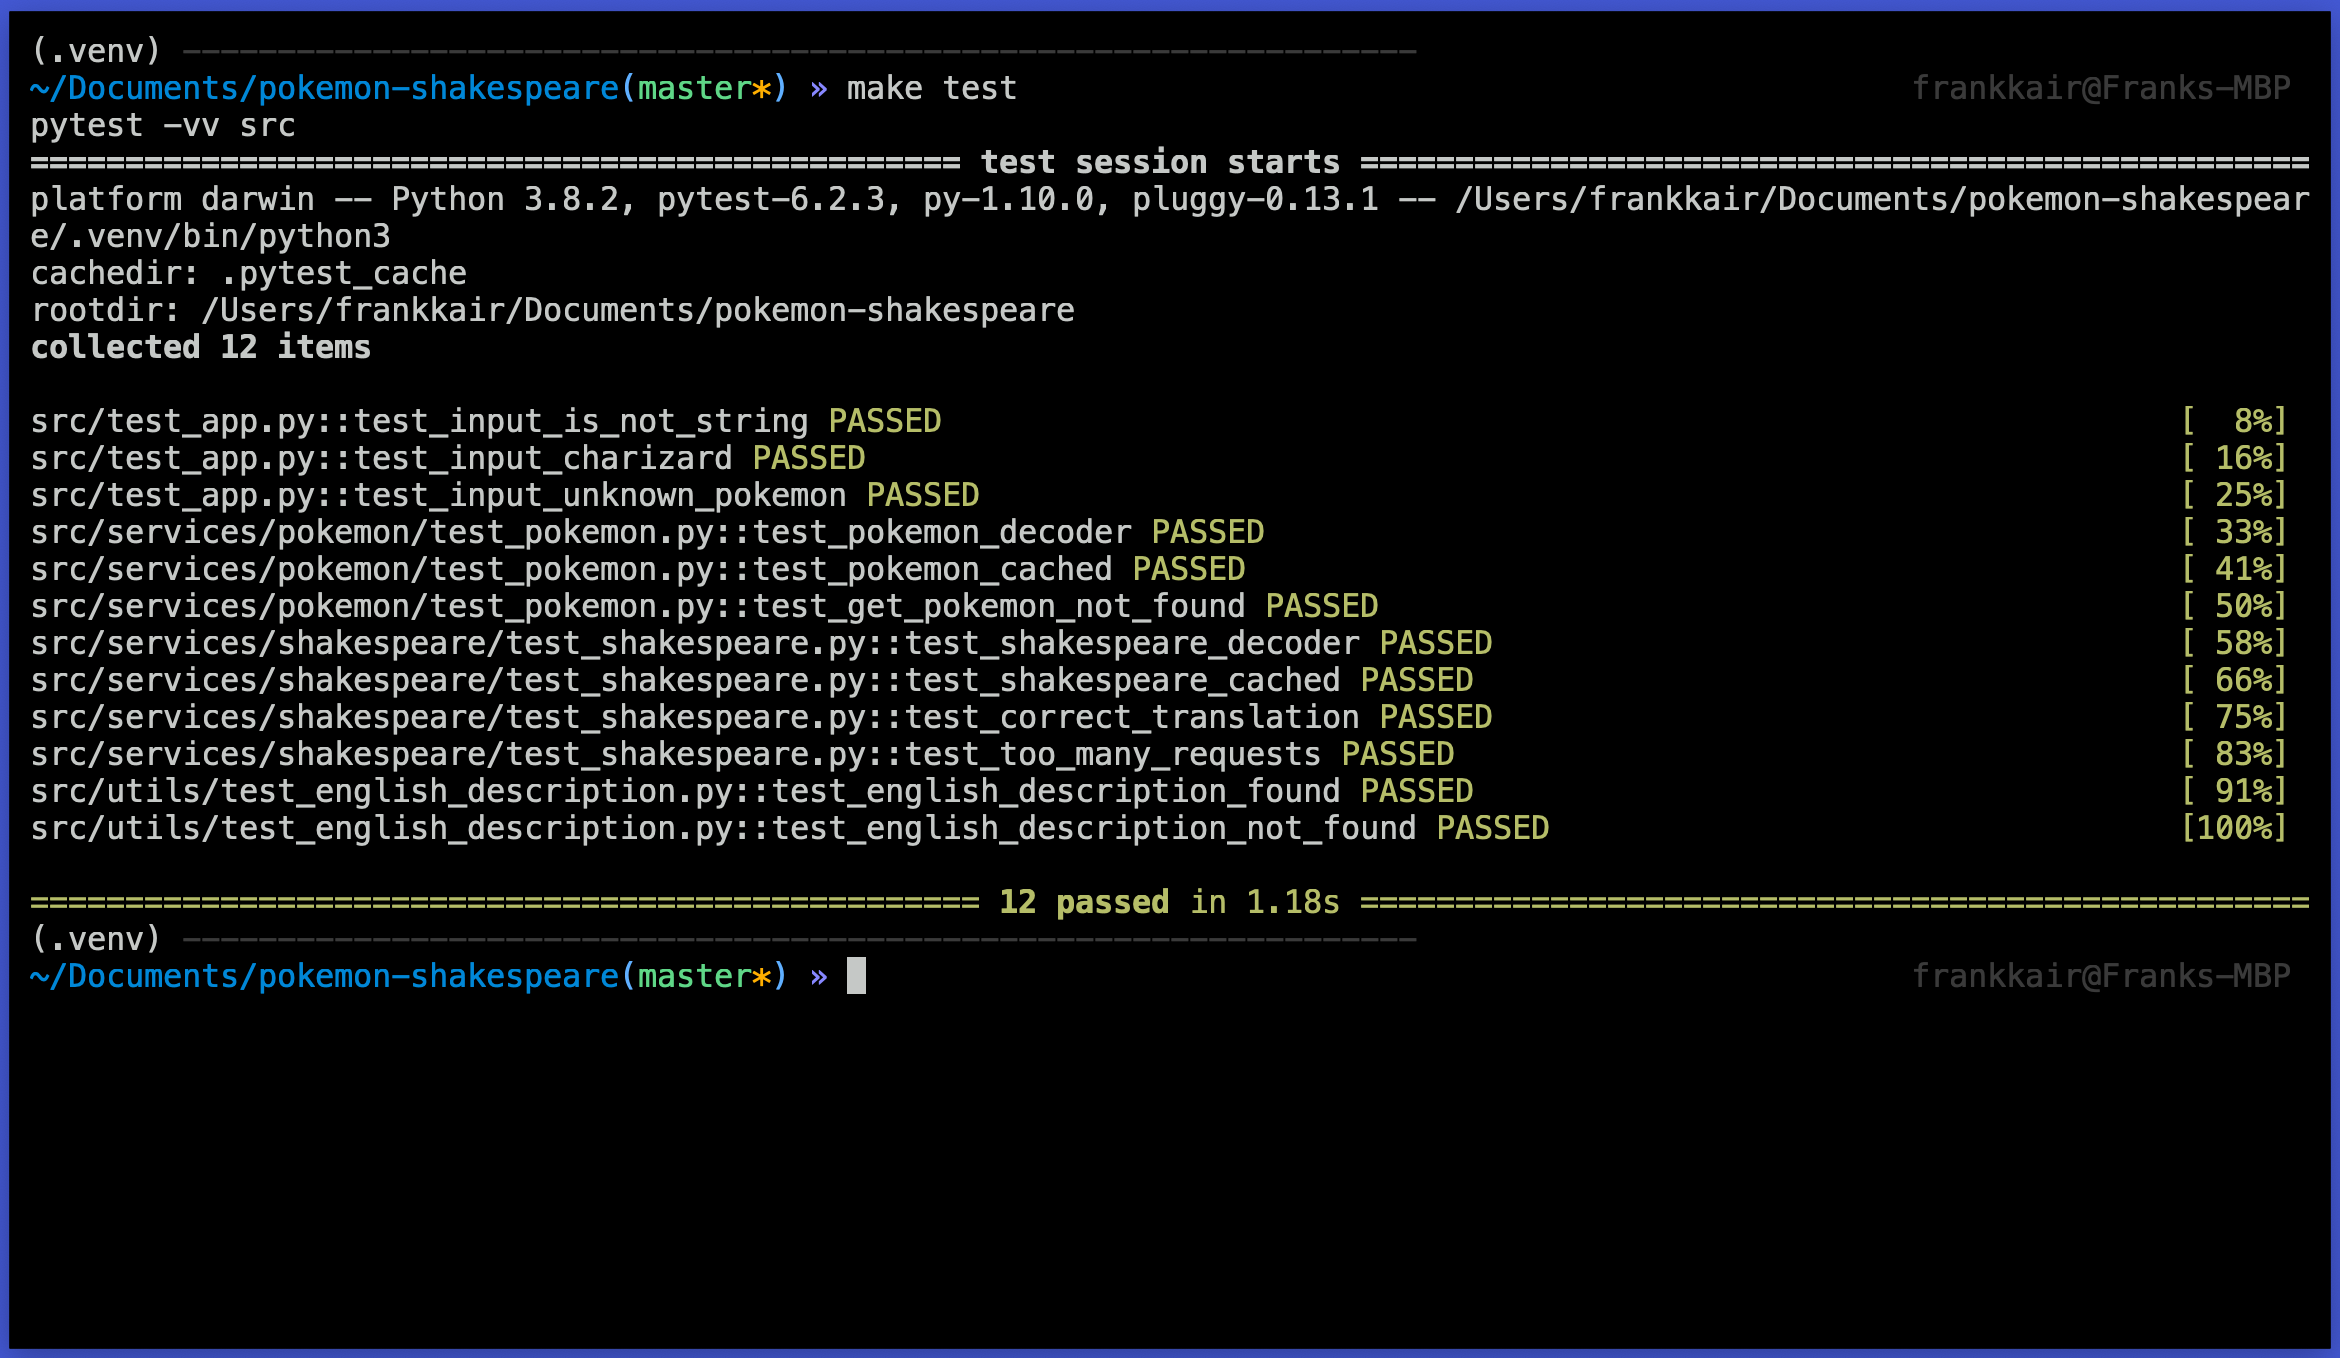
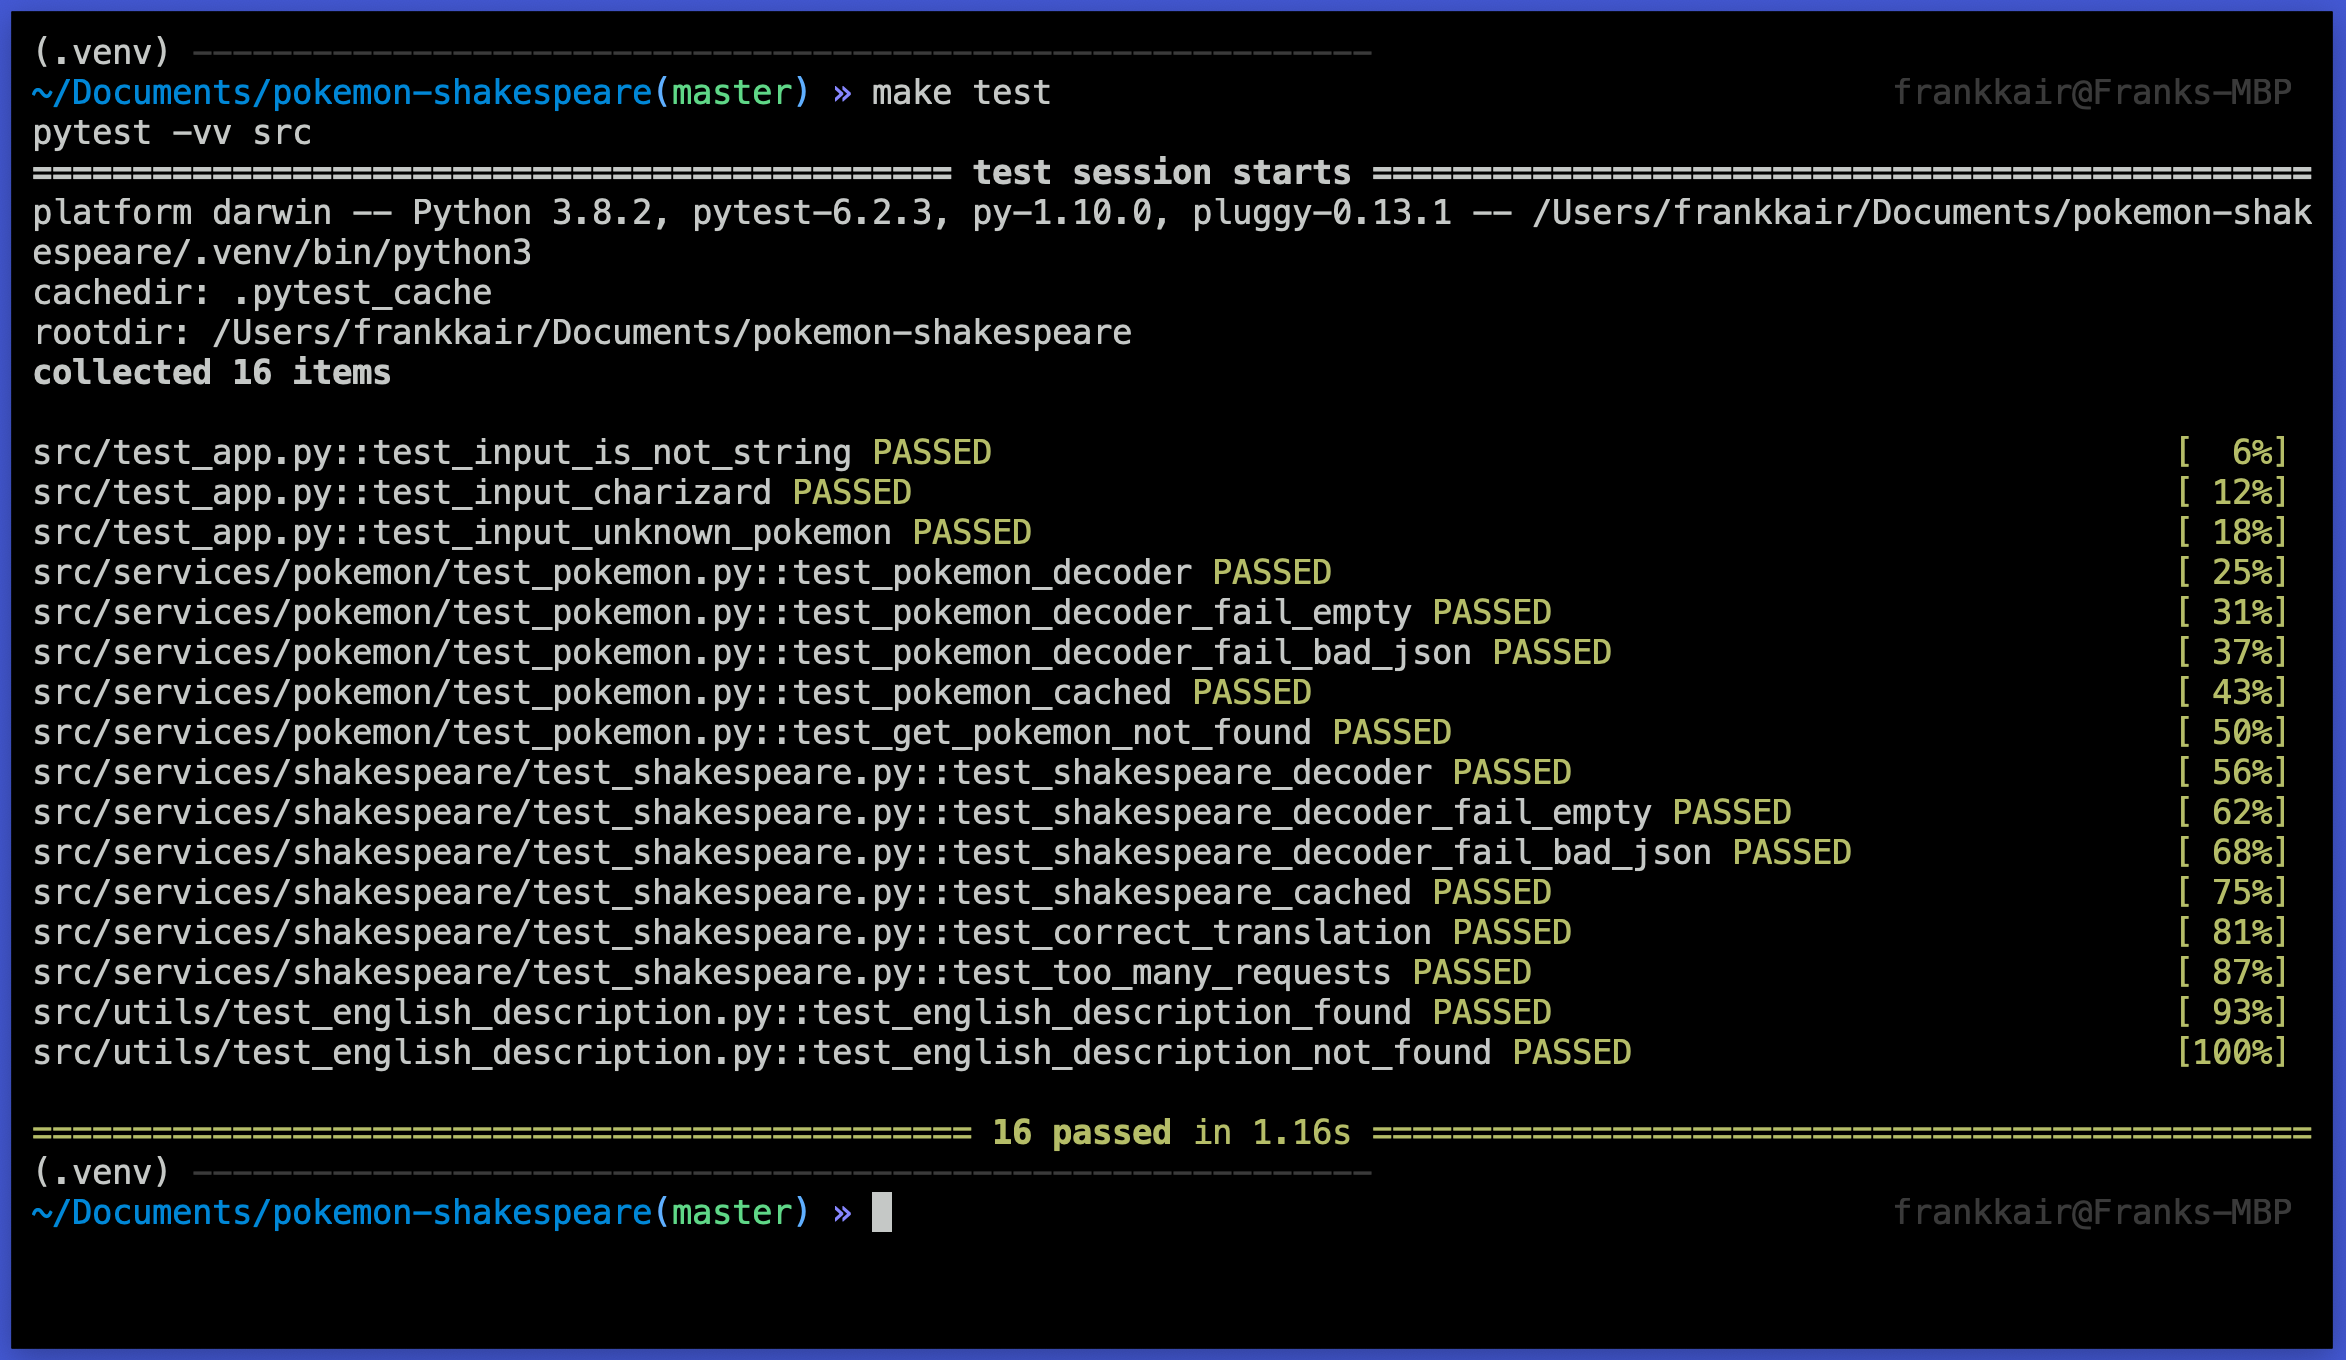
Function docs, note about logging and extra tests
- Functions are now fully documented with Args, Returns and Raises;
- Note about logging;
- Extra decoder tests with more robust error handling;
- Fixes some typos.

Changed region(s): [[0.0, 0.0309, 0.9983, 0.8969], [0.0, 0.9897, 0.9983, 1.0]]

diff --git a/src/services/pokemon/models.py b/src/services/pokemon/models.py
@@ -22,25 +22,43 @@ class Pokemon:
 
 
 def decode(data: Dict[str, Any]) -> Pokemon:
-    pkm_name = data['name']
-    flavor_text_entries = data['flavor_text_entries']
-    entries = []
+    """ Maps the PokeAPI call to a Pokemon object.
 
-    for entry in flavor_text_entries:
-        language = NameAndURL(
-            name=entry['language']['name'],
-            url=entry['language']['url'])
+    Args:
+        data: Dict[str, Any] representing the API response
 
-        version = NameAndURL(
-            name=entry['version']['name'],
-            url=entry['version']['url'])
+    Returns:
+        Pokemon object
 
-        entries.append(
-            FlavorTextEntry(
-                flavor_text=entry['flavor_text'],
-                language=language,
-                version=version
+    Raises:
+        ValueError if data is empty or does not contain the necessary key/values
+    """
+    if not data:
+        raise ValueError('Pokemon not found')
+
+    try:
+        pkm_name = data['name']
+        flavor_text_entries = data['flavor_text_entries']
+        entries = []
+
+        for entry in flavor_text_entries:
+            language = NameAndURL(
+                name=entry['language']['name'],
+                url=entry['language']['url'])
+
+            version = NameAndURL(
+                name=entry['version']['name'],
+                url=entry['version']['url'])
+
+            entries.append(
+                FlavorTextEntry(
+                    flavor_text=entry['flavor_text'],
+                    language=language,
+                    version=version
+                )
             )
-        )
 
-    return Pokemon(name=pkm_name, flavor_text_entries=entries)
+        return Pokemon(name=pkm_name, flavor_text_entries=entries)
+
+    except KeyError:
+        raise ValueError('Pokemon not found')

diff --git a/src/services/shakespeare/models.py b/src/services/shakespeare/models.py
@@ -21,12 +21,28 @@ class Translation:
 
 
 def decode(data: Dict[str, Any]) -> Translation:
-    t = Translation(
-        success=Success(total=data['success']['total']),
-        contents=Contents(
-            translated=data['contents']['translated'],
-            text=data['contents']['text'],
-            translation=data['contents']['translation']
+    """ Maps the Shakespeare API call to a Translation object.
+
+    Args:
+        data: Dict[str, Any] representing the API response
+
+    Returns:
+        Translation object
+
+    Raises:
+        ValueError if data is empty or does not contain the necessary key/values
+    """
+    if not data:
+        raise ValueError('No Shakespeare description found')
+
+    try:
+        return Translation(
+            success=Success(total=data['success']['total']),
+            contents=Contents(
+                translated=data['contents']['translated'],
+                text=data['contents']['text'],
+                translation=data['contents']['translation']
+            )
         )
-    )
-    return t
+    except KeyError:
+        raise ValueError('No Shakespeare description found')

diff --git a/src/services/shakespeare/client.py b/src/services/shakespeare/client.py
@@ -8,8 +8,19 @@ SHAKESPEARE_ENDPOINT = BASE_ENDPOINT + "shakespeare.json"
 
 
 @lru_cache(maxsize=16)
-def get_translation(desc: str) -> str:
-    response = requests.post(url=SHAKESPEARE_ENDPOINT, data={'text': desc})
+def get_translation(text: str) -> str:
+    """ Given a str, returns a Shakespeare style translation.
+
+    Args:
+        text: The input string
+
+    Returns:
+        The translated string
+
+    Raises:
+        HTTPError (status 429) if too many requests are sent
+    """
+    response = requests.post(url=SHAKESPEARE_ENDPOINT, data={'text': text})
     if response.status_code == 429:
         raise requests.exceptions.HTTPError('Too many requests')
 

diff --git a/src/services/pokemon/client.py b/src/services/pokemon/client.py
@@ -9,6 +9,17 @@ SPECIES_ENDPOINT = BASE_ENDPOINT + 'pokemon-species/'
 
 @lru_cache(maxsize=16)
 def get_pokemon(pkm_name: str) -> Pokemon:
+    """ Given a pokemon name, returns a Pokemon object.
+
+    Args:
+        pkm_name: str
+
+    Returns:
+        Pokemon object with name and flavor_text_entries
+
+    Raises:
+        ValueError if request times out or Pokemon does not exist
+    """
     try:
         url = SPECIES_ENDPOINT + pkm_name
         response = requests.get(url, timeout=5)

diff --git a/src/utils/english_description.py b/src/utils/english_description.py
@@ -2,6 +2,17 @@ from ..services.pokemon import Pokemon
 
 
 def get_english_description(pokemon: Pokemon) -> str:
+    """ Given a Pokemon, retrieves its first English flavor_text_entry.
+
+    Args:
+        pokemon: Pokemon object
+
+    Returns:
+        string representing the English description
+
+    Raises:
+        ValueError if no description is found
+    """
     for entry in pokemon.flavor_text_entries:
         if entry.language.name == 'en':
             return entry.flavor_text

diff --git a/src/services/shakespeare/test_shakespeare.py b/src/services/shakespeare/test_shakespeare.py
@@ -13,6 +13,20 @@ def test_shakespeare_decoder():
     assert result == translation_charizard
 
 
+def test_shakespeare_decoder_fail_empty():
+    try:
+        _ = decode({})
+    except ValueError:
+        assert True
+
+
+def test_shakespeare_decoder_fail_bad_json():
+    try:
+        _ = decode({'data': 'hello', 'data2': 'hello2'})
+    except ValueError:
+        assert True
+
+
 @responses.activate
 def test_shakespeare_cached():
     responses.add(

diff --git a/src/services/pokemon/test_pokemon.py b/src/services/pokemon/test_pokemon.py
@@ -12,6 +12,20 @@ def test_pokemon_decoder():
     assert result == pokemon_charizard
 
 
+def test_pokemon_decoder_fail_empty():
+    try:
+        _ = decode({})
+    except ValueError:
+        assert True
+
+
+def test_pokemon_decoder_fail_bad_json():
+    try:
+        _ = decode({'data': 'hello', 'data2': 'hello2'})
+    except ValueError:
+        assert True
+
+
 @responses.activate
 def test_pokemon_cached():
     responses.add(

diff --git a/src/test_app.py b/src/test_app.py
@@ -46,7 +46,6 @@ def test_input_unknown_pokemon():
     responses.add(
         method=responses.GET,
         url='https://pokeapi.co/api/v2/pokemon-species/testing',
-        json=pokemon_fixtures()['species_charizard'],
         status=404
     )
 

diff --git a/NOTES.md b/NOTES.md
@@ -97,6 +97,18 @@ class PokemonAlternativeImplementation:
     description: str
 ```
 
+### Logging
+
+It's handy to have logging to debug the system.
+
+```python
+import logging
+
+logging.info(...)
+logging.debug(...)
+logging.error(...)
+```
+
 ### External persistence
 
 [Redis](https://redis.io/) could be used to provide external caching (instead of our in-memory counterpart), and a simple database (SQLite?) for persistence. Overkill? 😅
@@ -131,7 +143,7 @@ def get_request(url: str) -> T:
 
 ### Naming convention
 
-The project is structure as this:
+The project is structured as this:
 
 ```
 services/pokemon/client.py, models.py, fixtures.py

diff --git a/README.md b/README.md
@@ -39,7 +39,7 @@ $ source .venv/bin/activate
 $ pip install -r requirements.txt
 ```
 
-Once you have your [virtual environment](https://docs.python.org/3/tutorial/venv.html) setup, you can run tests and the application via:
+Once you have your [virtual environment](https://docs.python.org/3/tutorial/venv.html) set up, you can run tests and the application via:
 
 ```
 $ make test
